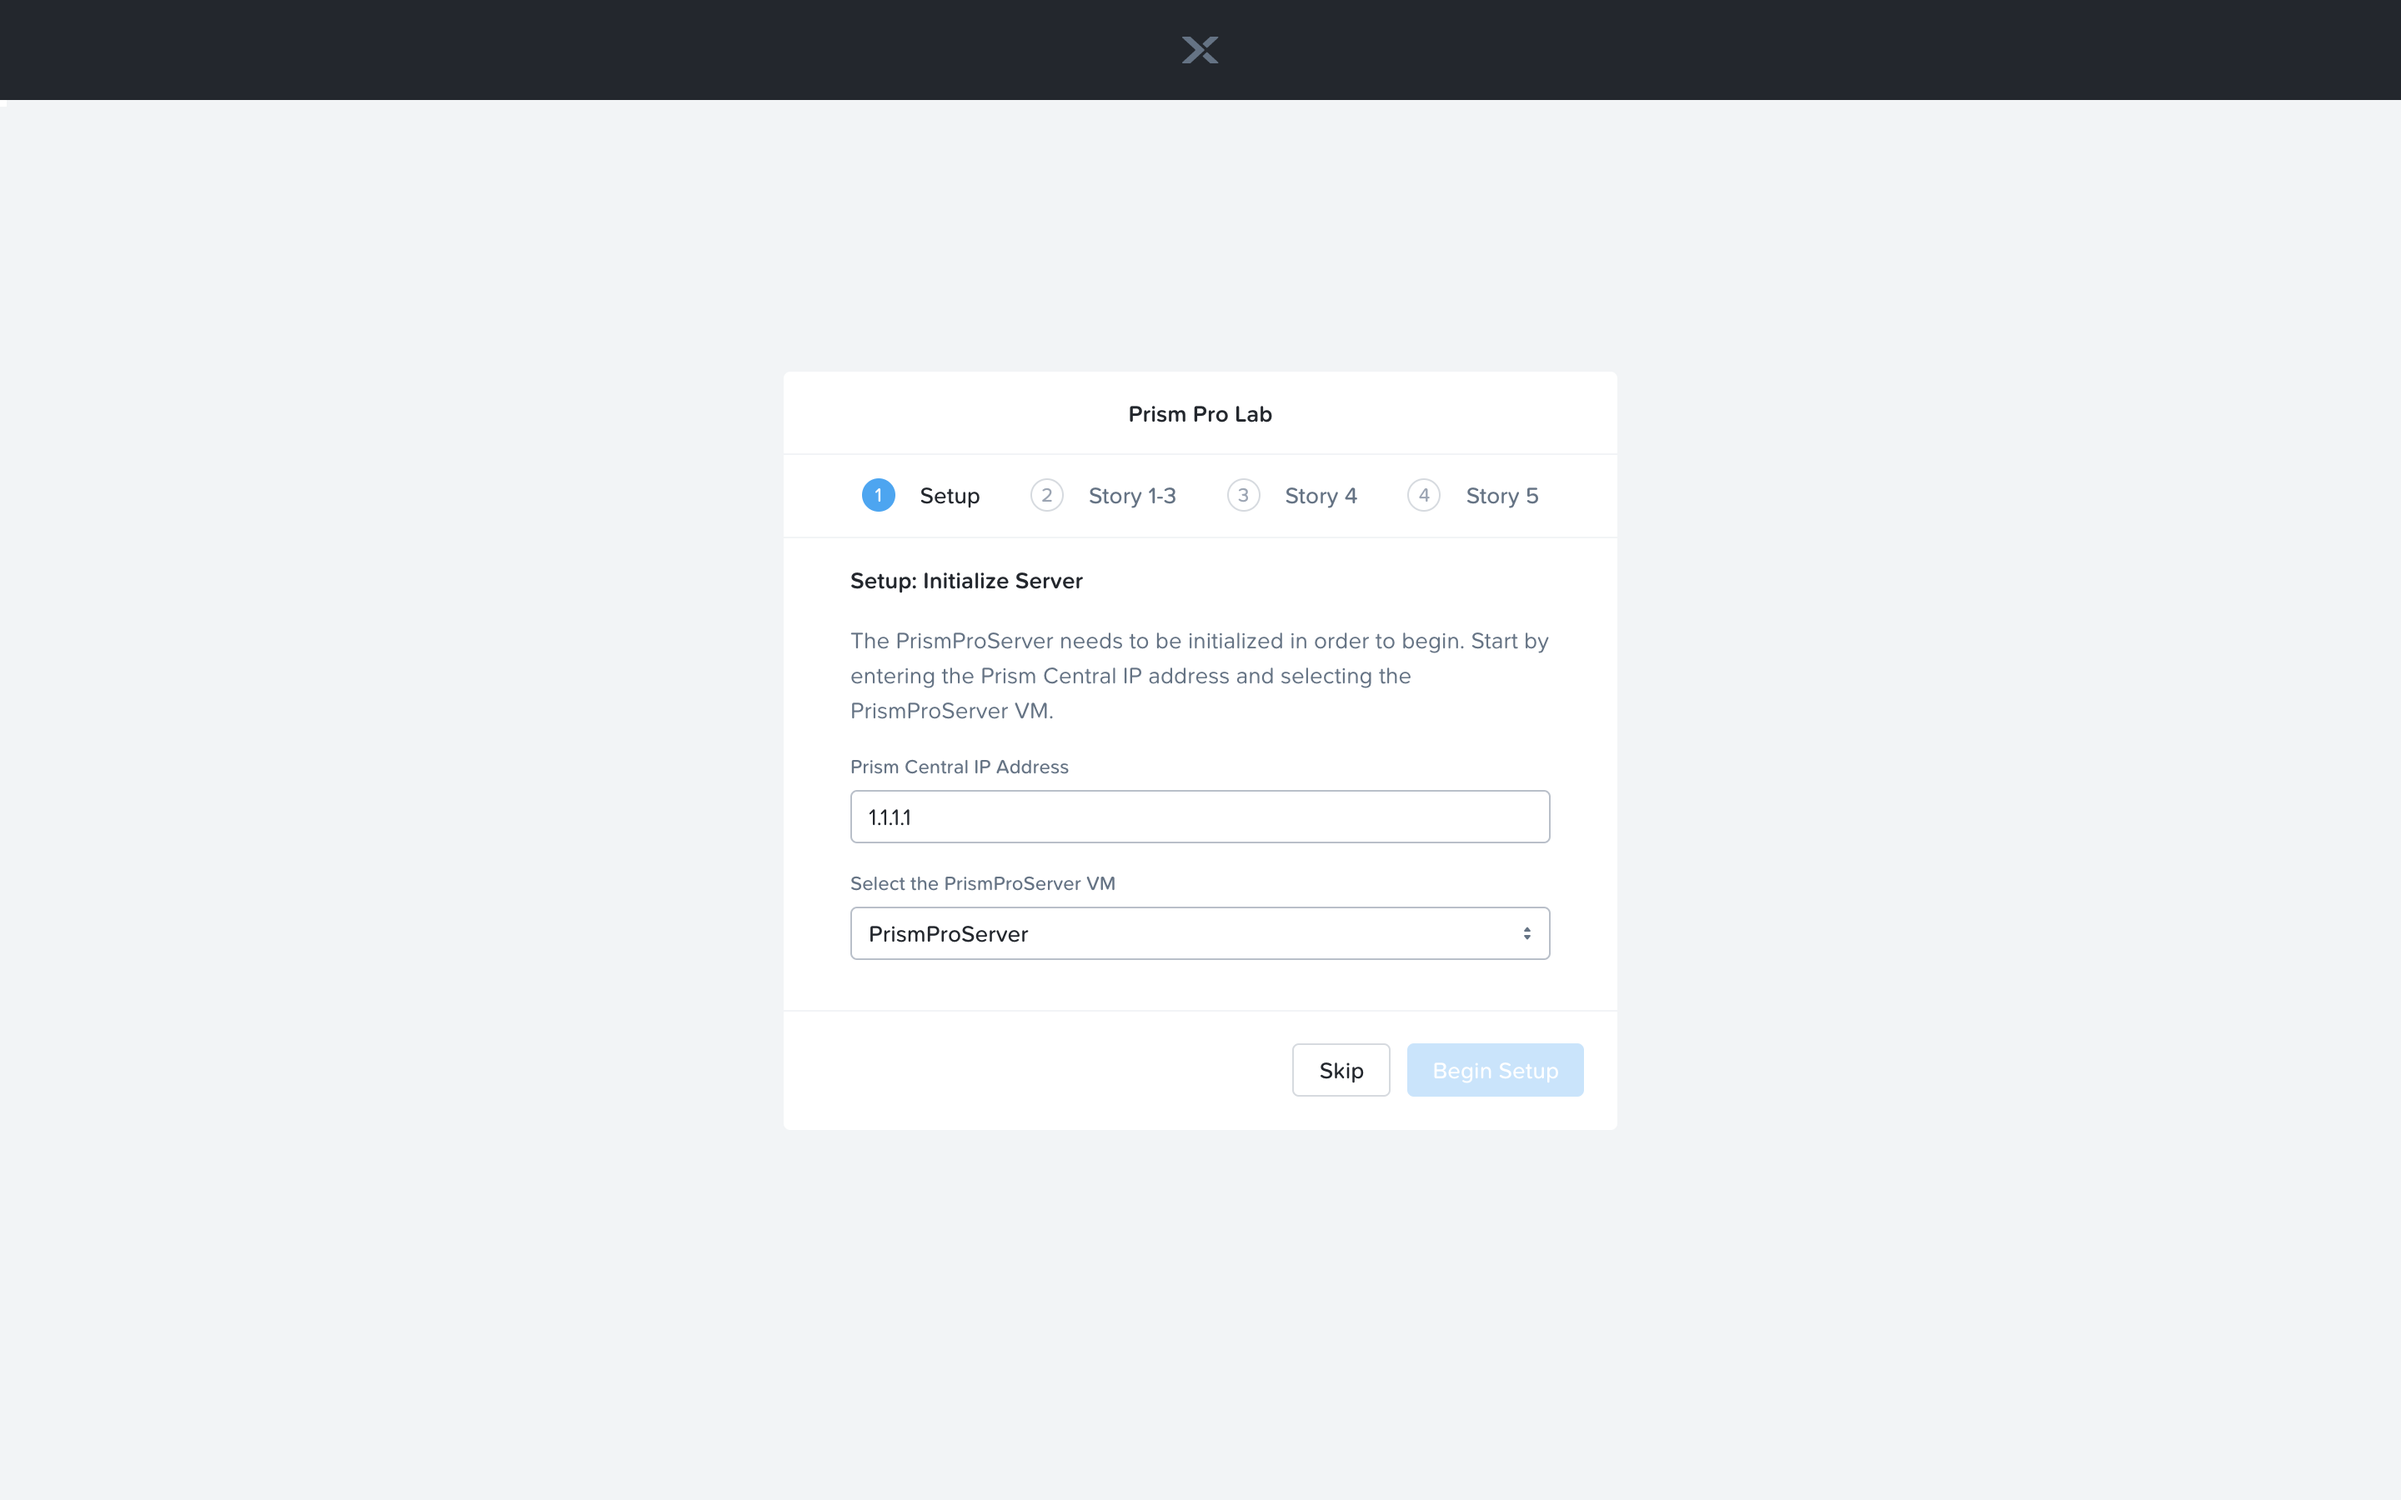
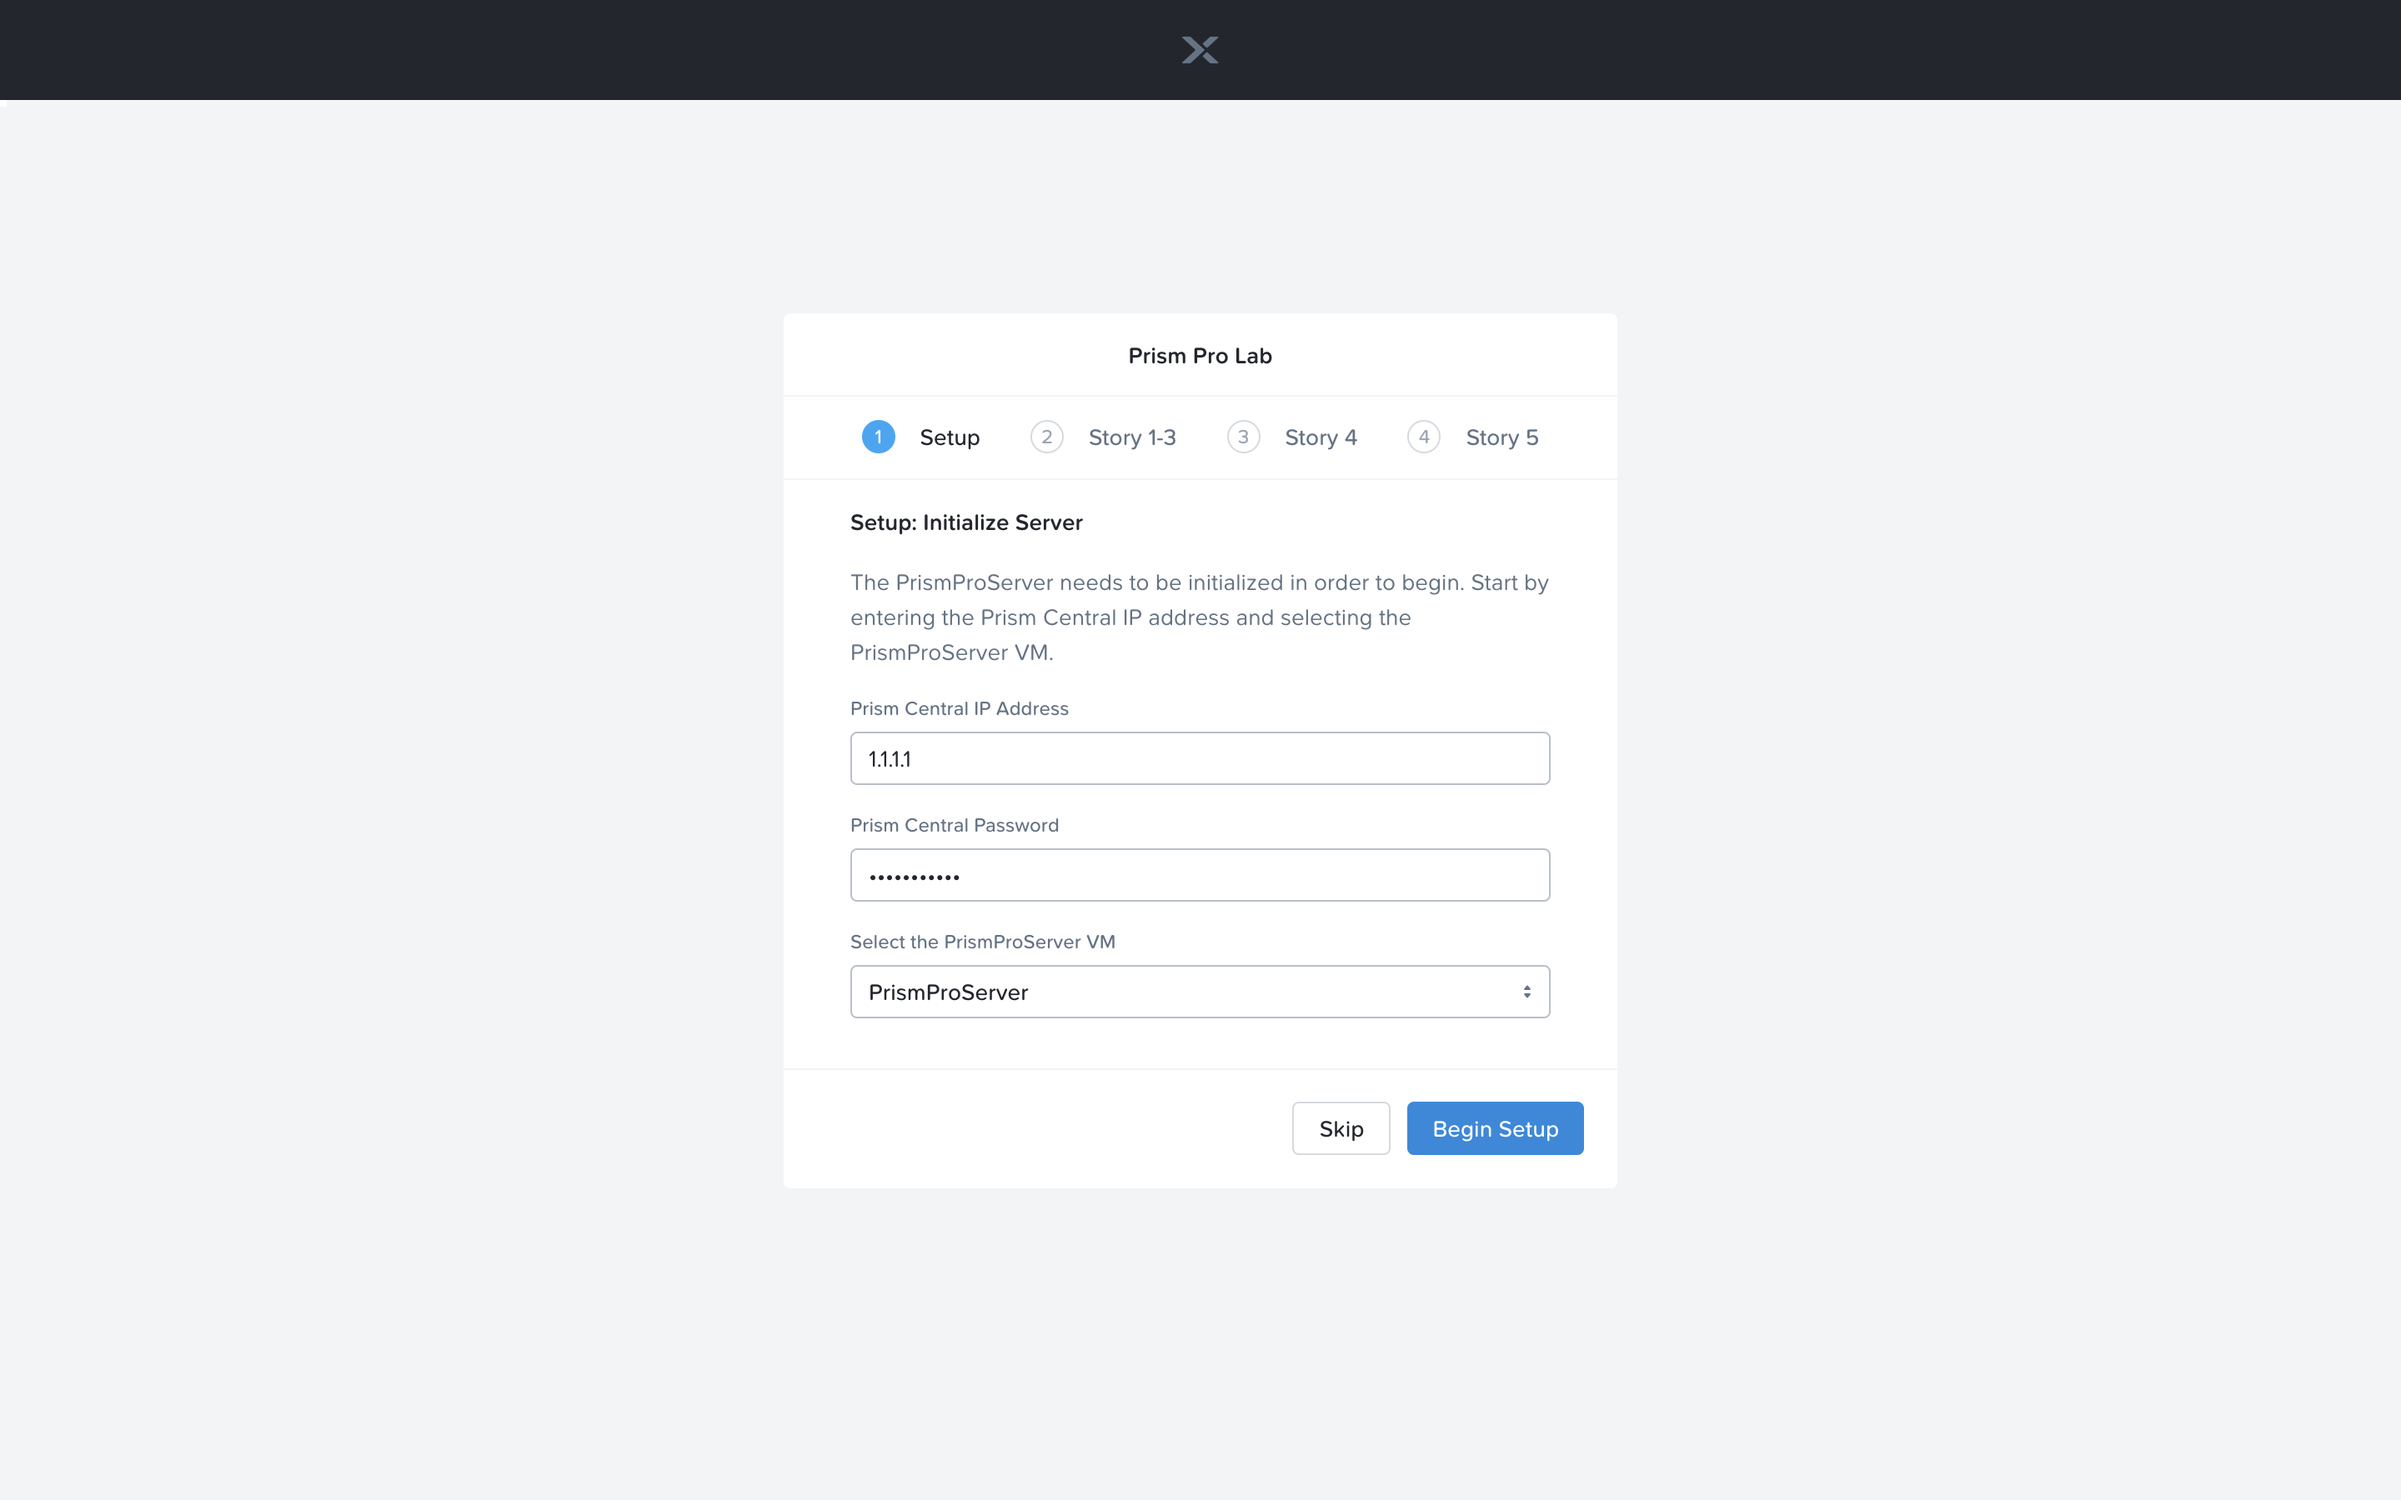
Updates to always require password in webserver. Restart nodejs server only if forever isn't running any processes. Run on Port 80.

diff --git a/prismpro/webserver/client/src/pages/DefaultPage.jsx b/prismpro/webserver/client/src/pages/DefaultPage.jsx
@@ -43,7 +43,6 @@ class DefaultPage extends Component {
   onVMSearchErr = (e) => {
     if (e && e.message === 'AUTHENTICATION_REQUIRED') {
       this.setState({
-        authenticationRequired: true,
         error: 'Failed to authenticate using default password. Please enter your PC Password to continue.'
       });
     } else {
@@ -54,7 +53,7 @@ class DefaultPage extends Component {
   }
 
   renderStep1() {
-    const { pcIp, ppvm, ppvmIp, authenticationRequired, password } = this.state;
+    const { pcIp, ppvm, ppvmIp, password } = this.state;
     const isValidPcIp = isValidIP(pcIp);
     return (
       <StackingLayout>
@@ -69,16 +68,14 @@ class DefaultPage extends Component {
           placeholder="Enter your Prism Central IP Address"
           helpText={ pcIp && !isValidPcIp ? 'Enter a Valid IP Address' : '' }
         />
-        { authenticationRequired ? (
-          <InputPlusLabel
-            onChange={e => this.setState({ password : e.target.value }) }
-            id="password"
-            value={ password }
-            label="Prism Central Password"
-            placeholder="Enter your Prism Central Password"
-            type="password"
-          />
-        ) : null }
+        <InputPlusLabel
+          onChange={e => this.setState({ password : e.target.value }) }
+          id="password"
+          value={ password }
+          label="Prism Central Password"
+          placeholder="Enter your Prism Central Password"
+          type="password"
+        />
         { this.renderEntityPicker('Select the PrismProServer VM', ' ', true) }
         { ppvm && !isValidIP(ppvm.ip) ? (
           <InputPlusLabel
@@ -94,47 +91,6 @@ class DefaultPage extends Component {
     );
   }
 
-  // renderStep1() {
-  //   const { pcIp, vm, vmIp, authenticationRequired, password } = this.state;
-  //   const isValidPcIp = isValidIP(pcIp);
-  //   return (
-  //     <StackingLayout>
-  //       <Title size="h3">Setup: Initialize Webserver</Title>
-  //       <div><TextLabel type={TextLabel.TEXT_LABEL_TYPE.SECONDARY}>We will initiate some setup scripts that will stress your VM and set up some data for the lab stories 1-3.</TextLabel></div>
-  //       <InputPlusLabel
-  //         error={ pcIp && !isValidPcIp }
-  //         onChange={e => this.setState({ pcIp : e.target.value }) }
-  //         id="pcIP"
-  //         value={ pcIp }
-  //         label="Prism Central IP Address"
-  //         placeholder="Enter your Prism Central IP Address"
-  //         helpText={ pcIp && !isValidPcIp ? 'Enter a Valid IP Address' : '' }
-  //       />
-  //       { authenticationRequired ? (
-  //         <InputPlusLabel
-  //           onChange={e => this.setState({ password : e.target.value }) }
-  //           id="password"
-  //           value={ password }
-  //           label="Prism Central Password"
-  //           placeholder="Enter your Prism Central Password"
-  //           type="password"
-  //         />
-  //       ) : null }
-  //       { this.renderEntityPicker() }
-  //       { vm && !isValidIP(vm.ip) ? (
-  //         <InputPlusLabel
-  //           error={ vmIp && !isValidIP(vmIp) }
-  //           onChange={e => this.setState({ vmIp : e.target.value }) }
-  //           id="vmIP"
-  //           label="VM IP Address"
-  //           placeholder="Enter the IP Address of your VM"
-  //           helpText={ vmIp && !isValidIP(vmIp) ? 'Enter a Valid IP Address' : '' }
-  //         />
-  //       ) : null }
-  //     </StackingLayout>
-  //   );
-  // }
-
   renderStep2() {
     const { ppvm, ppvmIp } = this.state;
     const ip = (ppvm && ppvm.ip) || ppvmIp;
@@ -147,7 +103,7 @@ class DefaultPage extends Component {
   }
 
   renderStep3() {
-    const { pcIp, password, authenticationRequired } = this.state;
+    const { pcIp, password } = this.state;
     const isValidPcIp = isValidIP(pcIp);
     return (
       <StackingLayout>
@@ -162,23 +118,21 @@ class DefaultPage extends Component {
           placeholder="Enter your Prism Central IP Address"
           helpText={ pcIp && !isValidPcIp ? 'Enter a Valid IP Address' : '' }
         />
-        { authenticationRequired ? (
-          <InputPlusLabel
-            onChange={e => this.setState({ password : e.target.value }) }
-            id="password"
-            value={ password }
-            label="Prism Central Password"
-            placeholder="Enter your Prism Central Password"
-            type="password"
-          />
-        ) : null }
+        <InputPlusLabel
+          onChange={e => this.setState({ password : e.target.value }) }
+          id="password"
+          value={ password }
+          label="Prism Central Password"
+          placeholder="Enter your Prism Central Password"
+          type="password"
+        />
         { this.renderEntityPicker() }
       </StackingLayout>
     );
   }
 
   renderStep4() {
-    const { pcIp, password, authenticationRequired } = this.state;
+    const { pcIp, password } = this.state;
     const isValidPcIp = isValidIP(pcIp);
     return (
       <StackingLayout>
@@ -193,26 +147,24 @@ class DefaultPage extends Component {
           placeholder="Enter your Prism Central IP Address"
           helpText={ pcIp && !isValidPcIp ? 'Enter a Valid IP Address' : '' }
         />
-        { authenticationRequired ? (
-          <InputPlusLabel
-            onChange={e => this.setState({ password : e.target.value }) }
-            id="password"
-            value={ password }
-            label="Prism Central Password"
-            placeholder="Enter your Prism Central Password"
-            type="password"
-          />
-        ) : null }
+        <InputPlusLabel
+          onChange={e => this.setState({ password : e.target.value }) }
+          id="password"
+          value={ password }
+          label="Prism Central Password"
+          placeholder="Enter your Prism Central Password"
+          type="password"
+        />
         { this.renderEntityPicker() }
       </StackingLayout>
     );
   }
 
   renderEntityPicker(label, helpText, isPPVM) {
-    const { pcIp, password, authenticationRequired } = this.state;
+    const { pcIp, password } = this.state;
     const isValidPcIp = isValidIP(pcIp);
     const attr = isPPVM ? 'ppvm' : 'vm';
-    if (!isValidPcIp || (authenticationRequired && !password)) {
+    if (!isValidPcIp || !password) {
       return null;
     }
     return (

diff --git a/prismpro/webserver/client/src/pages/AlertPage.jsx b/prismpro/webserver/client/src/pages/AlertPage.jsx
@@ -44,7 +44,6 @@ class DefaultPage extends Component {
   onVMSearchErr = (e) => {
     if (e && e.message === 'AUTHENTICATION_REQUIRED') {
       this.setState({
-        authenticationRequired: true,
         error: 'Failed to authenticate using default password. Please enter your PC Password to continue.'
       });
     } else {
@@ -55,9 +54,9 @@ class DefaultPage extends Component {
   }
 
   renderEntityPicker() {
-    const { pcIp, vm, password, authenticationRequired } = this.state;
+    const { pcIp, vm, password } = this.state;
     const isValidPcIp = isValidIP(pcIp);
-    if (!isValidPcIp || (authenticationRequired && !password)) {
+    if (!isValidPcIp || !password) {
       return null;
     }
     return (
@@ -80,7 +79,7 @@ class DefaultPage extends Component {
   }
 
   renderBody() {
-    const { pcIp, password, authenticationRequired } = this.state;
+    const { pcIp, password } = this.state;
     const isValidPcIp = isValidIP(pcIp);
     return (
       <StackingLayout padding="20px">
@@ -115,16 +114,14 @@ class DefaultPage extends Component {
           placeholder="Enter your Prism Central IP Address"
           helpText={ pcIp && !isValidPcIp ? 'Enter a Valid IP Address' : '' }
         />
-        { authenticationRequired ? (
-          <InputPlusLabel
-            onChange={e => this.setState({ password : e.target.value }) }
-            id="password"
-            value={ password }
-            label="Prism Central Password"
-            placeholder="Enter your Prism Central Password"
-            type="password"
-          />
-        ) : null }
+        <InputPlusLabel
+          onChange={e => this.setState({ password : e.target.value }) }
+          id="password"
+          value={ password }
+          label="Prism Central Password"
+          placeholder="Enter your Prism Central Password"
+          type="password"
+        />
         { this.renderEntityPicker() }
       </StackingLayout>
     );

diff --git a/prismpro/webserver/index.js b/prismpro/webserver/index.js
@@ -3,7 +3,7 @@ var bodyParser = require('body-parser');
 var https = require('https');
 var exec = require('child_process').exec;
 const app = express();
-const port = process.env.PORT || 8080;
+const port = process.env.PORT || 80;
 
 // Load in the config file - Note that any time this file is changed
 // the node server must be restarted.

diff --git a/prismpro_xplay/prismpro_xplay.rst b/prismpro_xplay/prismpro_xplay.rst
@@ -39,7 +39,7 @@ Applications provisioned as part of the  :ref:`linux_tools_vm` will be used to a
 #. Please follow the instructions to deploy the :ref:`linux_tools_vm` and power it on before moving on with this lab.
 
 
-#. Right click the following URL to open a new tab and navigate to the webpage at http://10.42.247.70:8080/ and enter the details in the Setup portion of the form. Then click 'Begin Setup' once you have filled in all the fields. This will get your environment ready for this lab. **Keep this tab open during entire Prism Pro lab to return to as directed in later portions.**
+#. Right click the following URL to open a new tab and navigate to the webpage at http://10.42.247.70 and enter the details in the Setup portion of the form. Then click 'Begin Setup' once you have filled in all the fields. This will get your environment ready for this lab. **Keep this tab open during entire Prism Pro lab to return to as directed in later portions.**
 
    .. figure:: images/ppro_08.png
 
@@ -228,7 +228,7 @@ You are welcome to compose your own subject message. The above is just an exampl
 
    .. figure:: images/ppro_41.png
 
-#. **Switch tabs back to** the http://10.42.247.70:8080 page and press Continue from the Story 1-3 Step, if you have not already.
+#. **Switch tabs back to** the http://10.42.247.70 page and press Continue from the Story 1-3 Step, if you have not already.
 
    .. figure:: images/ppro_08b.png
 
